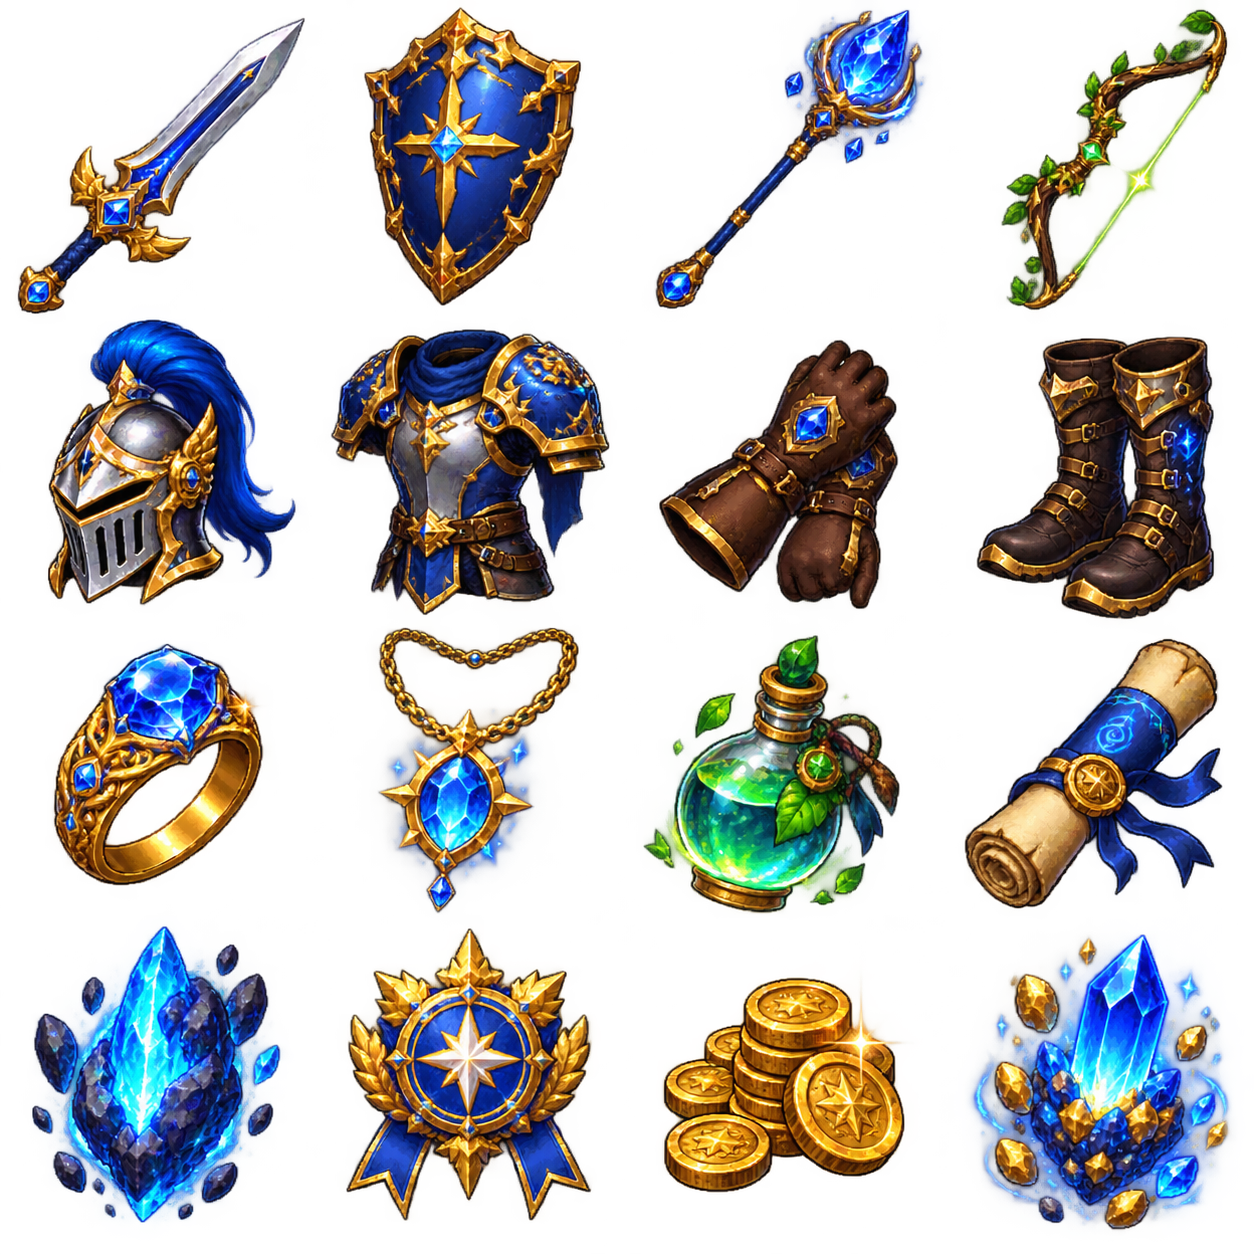
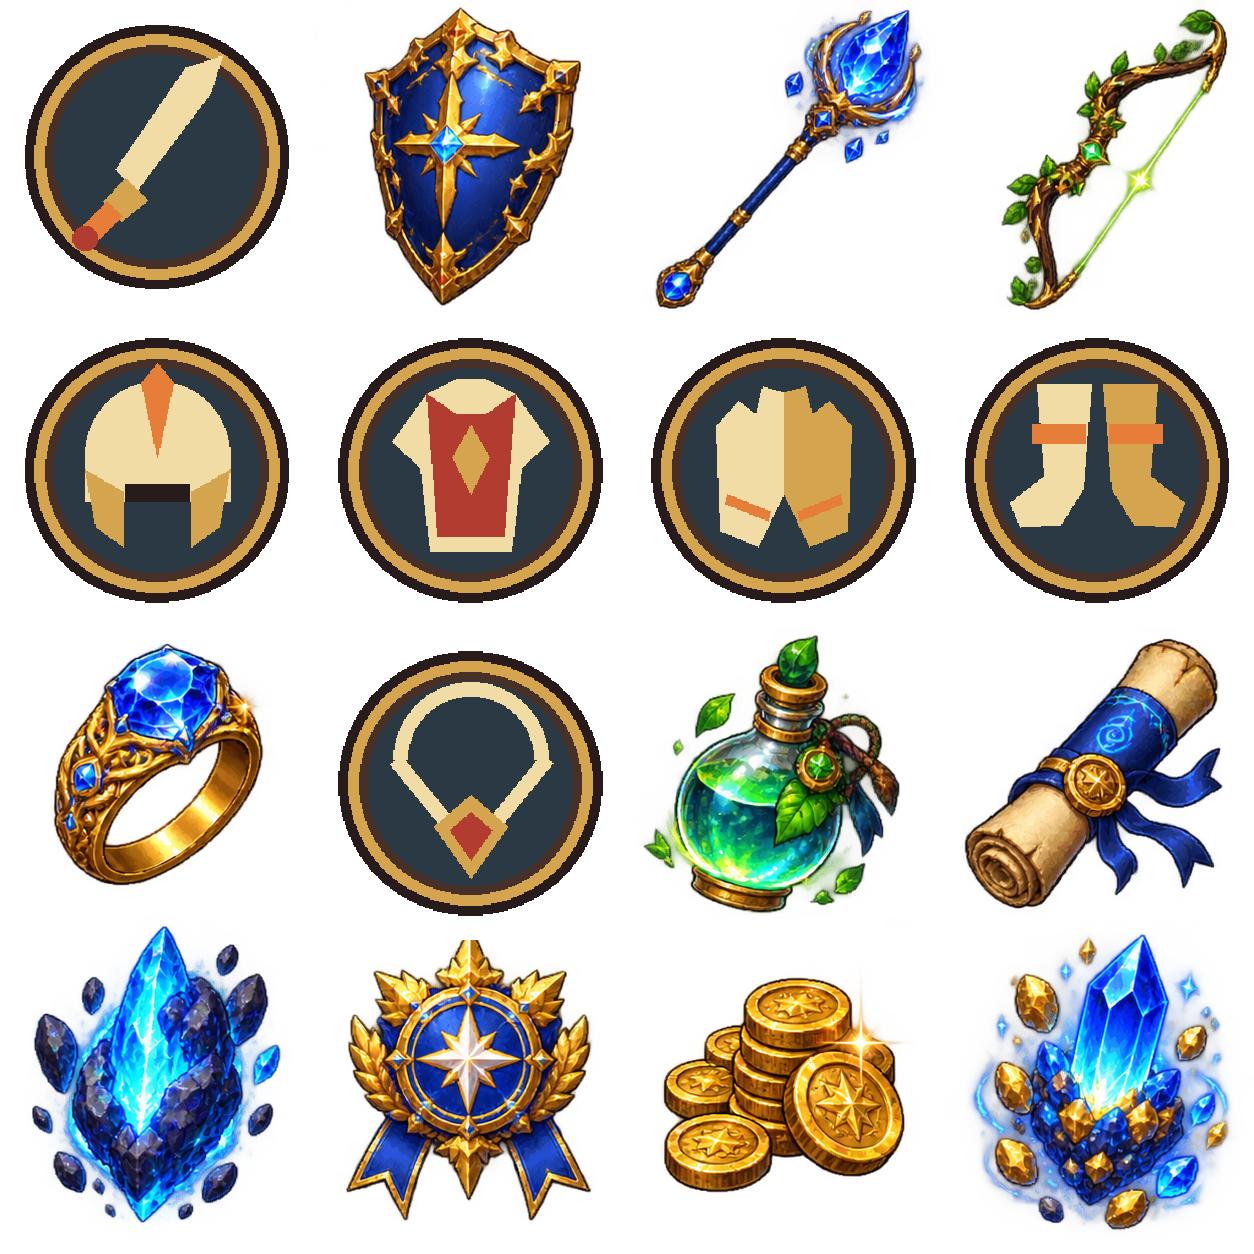
아트(게임): 장비 아이콘 6종 ox-alpha 통일
실제 인벤토리·장비 화면이 소비하는 6부위 아이콘을 작은 UI 크기에서 읽히는 공통 배지 픽토그램으로 교체한다. 나머지 아틀라스 10칸과 GUID·소비 경로는 유지하고 결정론·영역 밖 불변을 생성기에서 검증한다.

Changed region(s): [[0.0, 0.0, 0.9952, 0.7464]]

diff --git a/projects/ashes-to-stars/art/gen_oxalpha_item_equipment_icons.py b/projects/ashes-to-stars/art/gen_oxalpha_item_equipment_icons.py
@@ -1,0 +1,125 @@
+#!/usr/bin/env python3
+"""실제 장비 화면이 소비하는 6부위 아이콘을 작은 크기용 ox-alpha 픽토그램으로 통일한다."""
+from pathlib import Path
+
+from PIL import Image, ImageChops, ImageDraw
+
+HERE = Path(__file__).resolve().parent
+TARGET = HERE.parent / "unity/Assets/Resources/ui/item_atlas.png"
+BACKUP = HERE / "bak_higgsfield_item_atlas.png"
+
+T = (0, 0, 0, 0)
+INK = (39, 27, 27, 255)
+SHADOW = (70, 48, 39, 255)
+GOLD = (213, 164, 78, 255)
+CREAM = (242, 220, 166, 255)
+AMBER = (230, 126, 57, 255)
+RED = (179, 60, 48, 255)
+SLATE = (42, 57, 68, 255)
+PALETTE = {T, INK, SHADOW, GOLD, CREAM, AMBER, RED, SLATE}
+CELLS = {
+    "sword": (0, 0), "helmet": (0, 1), "armor": (1, 1),
+    "gloves": (2, 1), "boots": (3, 1), "amulet": (1, 2),
+}
+
+
+def bounds(index):
+    cell = 1254 / 4
+    return round(index * cell), round((index + 1) * cell)
+
+
+def badge():
+    im = Image.new("RGBA", (256, 256), T)
+    d = ImageDraw.Draw(im)
+    d.ellipse((20, 20, 235, 235), fill=INK)
+    d.ellipse((28, 28, 227, 227), fill=GOLD)
+    d.ellipse((37, 37, 218, 218), fill=SHADOW)
+    d.ellipse((44, 44, 211, 211), fill=SLATE)
+    return im, d
+
+
+def sword(d):
+    d.polygon(((151, 55), (181, 45), (171, 76), (111, 155), (94, 138)), fill=CREAM)
+    d.polygon(((102, 145), (120, 163), (99, 180), (84, 164)), fill=GOLD)
+    d.line((93, 170, 70, 193), fill=AMBER, width=18)
+    d.ellipse((59, 184, 79, 204), fill=RED)
+
+
+def helmet(d):
+    d.pieslice((69, 55, 187, 177), 180, 360, fill=CREAM)
+    d.rectangle((69, 113, 187, 153), fill=CREAM)
+    d.polygon(((69, 127), (100, 145), (100, 190), (78, 174)), fill=GOLD)
+    d.polygon(((187, 127), (156, 145), (156, 190), (178, 174)), fill=GOLD)
+    d.polygon(((115, 56), (128, 40), (141, 56), (128, 117)), fill=AMBER)
+    d.rectangle((102, 139, 154, 153), fill=INK)
+
+
+def armor(d):
+    d.polygon(((92, 65), (116, 53), (140, 53), (164, 65), (192, 104),
+               (169, 126), (161, 194), (95, 194), (87, 126), (64, 104)), fill=CREAM)
+    d.polygon(((92, 65), (116, 82), (140, 82), (164, 65), (155, 181),
+               (101, 181)), fill=RED)
+    d.polygon(((128, 91), (143, 117), (128, 147), (113, 117)), fill=GOLD)
+
+
+def gloves(d):
+    d.polygon(((73, 91), (91, 71), (105, 82), (111, 59), (128, 64),
+               (128, 146), (107, 190), (76, 177)), fill=CREAM)
+    d.polygon(((183, 91), (165, 71), (151, 82), (145, 59), (128, 64),
+               (128, 146), (149, 190), (180, 177)), fill=GOLD)
+    d.line((81, 151, 116, 165), fill=AMBER, width=9)
+    d.line((175, 151, 140, 165), fill=AMBER, width=9)
+
+
+def boots(d):
+    d.polygon(((79, 57), (123, 57), (116, 143), (98, 172), (65, 174),
+               (57, 154), (85, 132)), fill=CREAM)
+    d.polygon(((133, 57), (177, 57), (171, 132), (199, 154), (191, 174),
+               (158, 172), (140, 143)), fill=GOLD)
+    d.rectangle((75, 90, 118, 105), fill=AMBER)
+    d.rectangle((138, 90, 181, 105), fill=AMBER)
+
+
+def amulet(d):
+    d.arc((65, 45, 191, 171), 180, 360, fill=CREAM, width=12)
+    d.line((66, 108, 107, 158), fill=CREAM, width=12)
+    d.line((190, 108, 149, 158), fill=CREAM, width=12)
+    d.polygon(((128, 137), (158, 163), (128, 205), (98, 163)), fill=GOLD)
+    d.polygon(((128, 151), (145, 166), (128, 190), (111, 166)), fill=RED)
+
+
+DRAW = {"sword": sword, "helmet": helmet, "armor": armor,
+        "gloves": gloves, "boots": boots, "amulet": amulet}
+
+
+def make():
+    current = Image.open(TARGET).convert("RGBA")
+    assert current.size == (1254, 1254), current.size
+    if not BACKUP.exists():
+        current.save(BACKUP, optimize=True)
+    source = Image.open(BACKUP).convert("RGBA")
+    before = source.copy()
+
+    for key, (col, row) in CELLS.items():
+        x0, x1 = bounds(col)
+        y0, y1 = bounds(row)
+        icon, draw = badge()
+        DRAW[key](draw)
+        assert set(icon.getdata()) <= PALETTE
+        assert icon.getbbox() == (20, 20, 236, 236)
+        icon = icon.resize((x1 - x0, y1 - y0), Image.Resampling.NEAREST)
+        source.paste(T, (x0, y0, x1, y1))
+        source.paste(icon, (x0, y0), icon)
+
+    changed = ImageChops.difference(source, before)
+    for col, row in CELLS.values():
+        x0, x1 = bounds(col)
+        y0, y1 = bounds(row)
+        changed.paste(T, (x0, y0, x1, y1))
+    assert changed.getbbox() is None
+    source.save(TARGET, optimize=True)
+    print(f"→ {TARGET.name}  {TARGET.stat().st_size}B")
+
+
+if __name__ == "__main__":
+    make()
